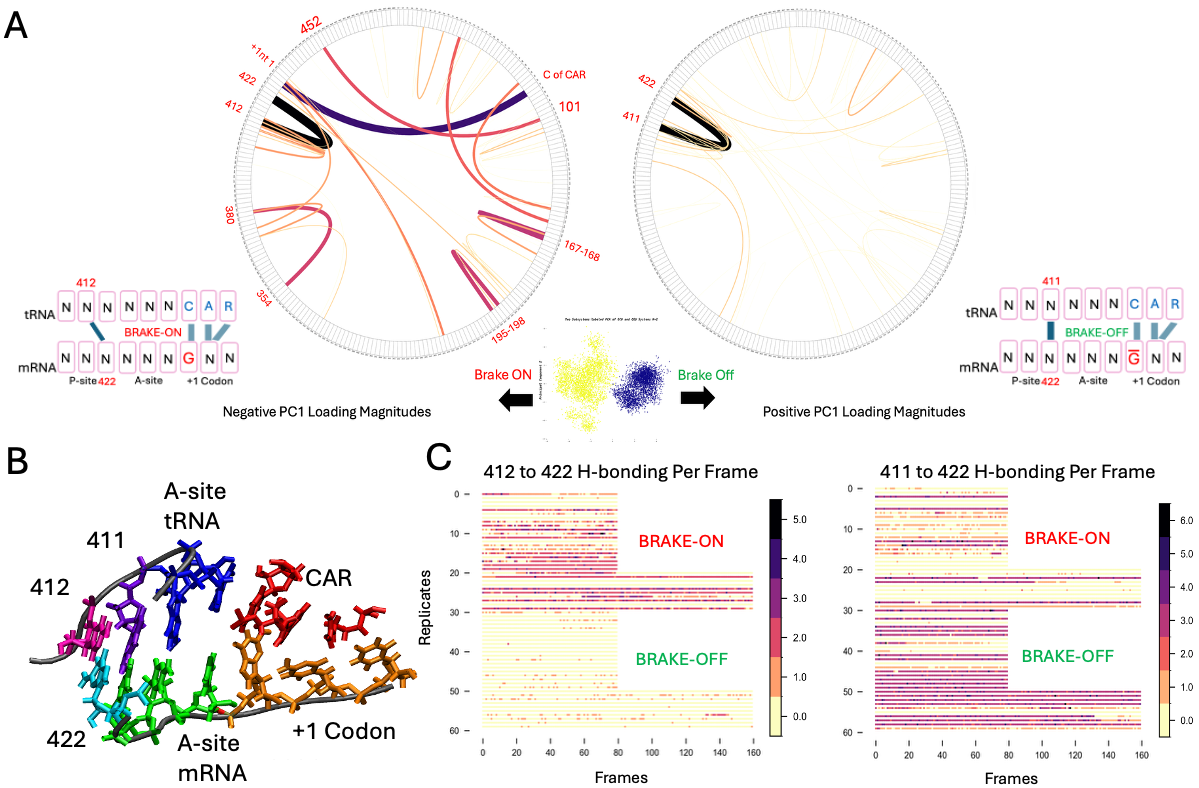
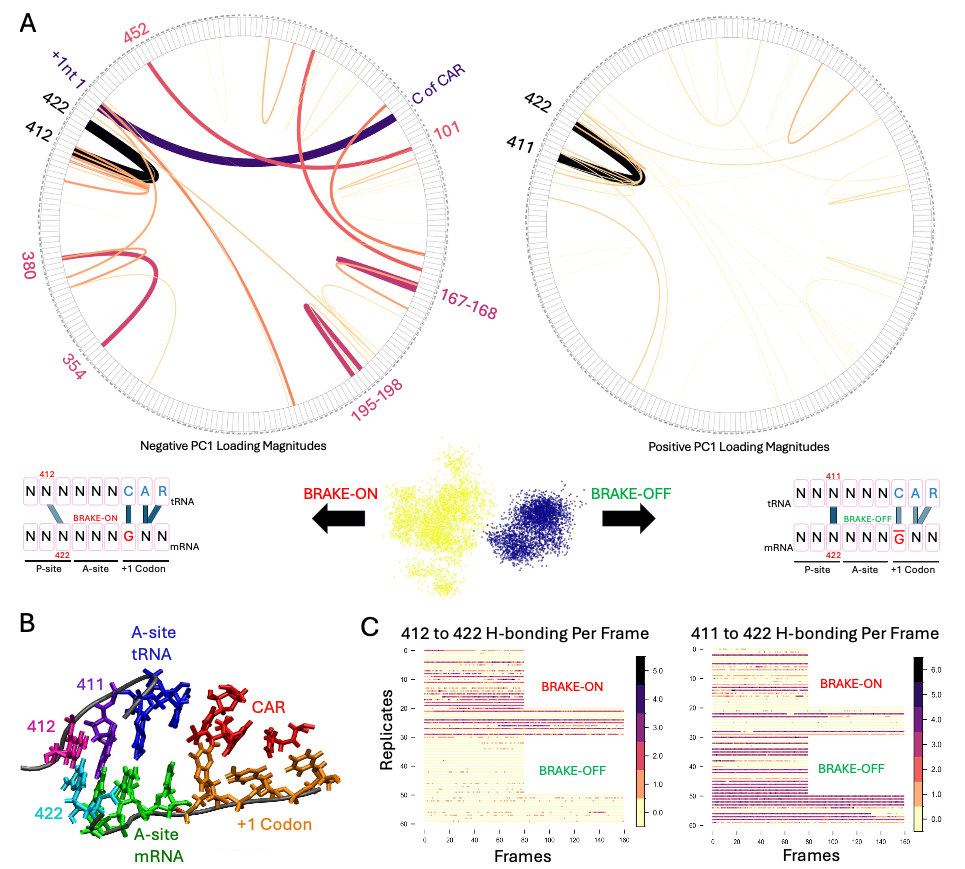
cleaning up leftover incorrect resource references in docs and throughout repo readme

diff --git a/docs/source/index.rst b/docs/source/index.rst
@@ -37,7 +37,7 @@ mdsa-tools is a Python package for systems-level analysis of molecular-dynamics 
       **Link to the full python API**
       ^^^
       
-      .. image:: /resources/Pipelineflic.png
+      .. image:: /resources/pipeline_11_2_2025.png
          :alt: PCA clusters for system A
          :width: 100%
          :align: center
